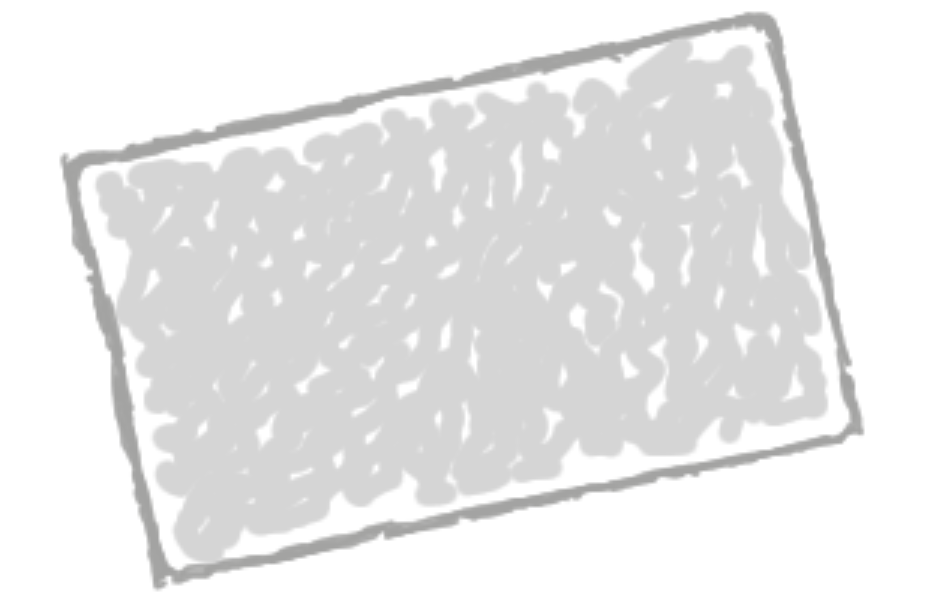
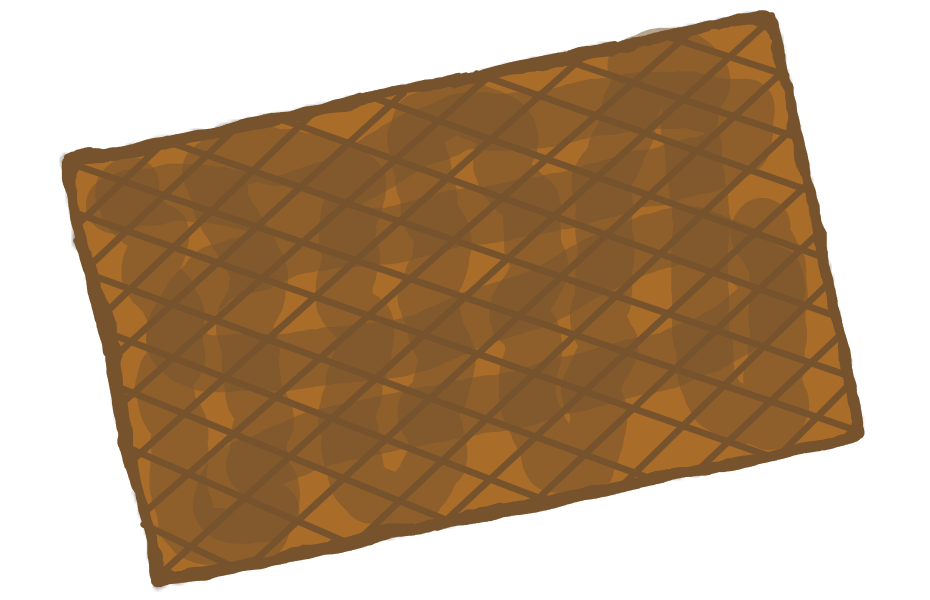
last changes draw

diff --git a/tentpal/src/components/FrontTent/FrontTent.js b/tentpal/src/components/FrontTent/FrontTent.js
@@ -1,13 +1,13 @@
 
 import classes from "./FrontTent.module.css"
 
-// colorType <= cloud, sunny, snow, rain
+// colorType <= cloudy, sunny, snow, rain
 
 function FrontTent({colorType}) {
 
 
     const returnTypeColorDiv = () => {
-        if      (colorType === "cloud") return <div className={`${classes.triangle} ${classes.triangleNormal}`} ></div>;
+        if      (colorType === "cloudy") return <div className={`${classes.triangle} ${classes.triangleNormal}`} ></div>;
         else if (colorType === "sunny") return <div className={`${classes.triangle} ${classes.triangleWarm  }`} ></div>;
         else if (colorType === "snow" ) return <div className={`${classes.triangle} ${classes.triangleCold  }`} ></div>;
         else if (colorType === "rain" ) return <div className={`${classes.triangle} ${classes.triangleRain  }`} ></div>;
@@ -15,7 +15,7 @@ function FrontTent({colorType}) {
     };
 
     const returnBlock = () => {
-        if (colorType !== "cloud" && colorType !== "sunny" && colorType !== "snow" && colorType !== "rain") return <></>;
+        if (colorType !== "cloudy" && colorType !== "sunny" && colorType !== "snow" && colorType !== "rain") return <></>;
         return(
             <>
                 <div className={classes.tentLight   }></div>

diff --git a/tentpal/src/pages/Home/Home.js b/tentpal/src/pages/Home/Home.js
@@ -38,7 +38,7 @@ function Home() {
     const randomWeather = () => {
         let w = Math.floor(Math.random() * 4);
         if (w === 0) {
-            userData.setTypeWeather("cloud");
+            userData.setTypeWeather("cloudy");
         }
         else if (w === 1) {
             userData.setTypeWeather("sunny");
@@ -73,10 +73,10 @@ function Home() {
             const weather = userData.getTypeWeather();
             const tentType = tentData.getTentType();
             if (weather !== tentType) {
-                if (weather !== "cloud") {
+                if (weather !== "cloudy") {
                     setMessage(`Weather: ${weather} -- Consider switching to a anti_${weather} tent`);
                 } else {
-                    setMessage("Weather: cloud -- Switch to a standard tent for best comfort");
+                    setMessage("Weather: cloudy -- Switch to a standard tent for best comfort");
                 }
             } else {
                 setMessage(`Weather: ${weather}`);

diff --git a/tentpal/src/pages/SetTent/SetTent.js b/tentpal/src/pages/SetTent/SetTent.js
@@ -34,8 +34,8 @@ function SetTent(){
     const setTent = (e) => {
         console.log(e);
         switch(e) {
-            case "http://localhost:3000/static/media/standart.1d5827649ef32e79c7ab.webp":
-                setKeyTent("cloud");
+            case "http://localhost:3000/static/media/standart.81e9fe1e3032a8d1369e.webp":
+                setKeyTent("cloudy");
                 break;
             case "http://localhost:3000/static/media/rain.8b04245781f66cfcf9da.webp":
                 setKeyTent("rain");

diff --git a/tentpal/src/pages/EnergyPanel/EnergyPanel.module.css b/tentpal/src/pages/EnergyPanel/EnergyPanel.module.css
@@ -96,7 +96,6 @@
     position: absolute;
     background-color: hsl(120, 75%, 33%);
     top: 250px;
-    left: 10px;
 }
 
 .applyButton:hover {
@@ -108,7 +107,7 @@
 .buttonTemp {
     width: 30%;
     height: 40%;
-    margin-left: 5%;
+    margin-left: 15%;
     border: 5px solid #767787;
     background-color: #8A8B9D;
 

diff --git a/tentpal/src/dataSet/userData.js b/tentpal/src/dataSet/userData.js
@@ -8,7 +8,7 @@ import energyData from "./setings/energyData";
 
 
 let userMode = false;
-let typeWeather = "none";       // cloud, sunny, snow, rain
+let typeWeather = "none";       // cloudy, sunny, snow, rain
 let intensityWeather = "good";  // no_warning, warning
 
 

diff --git a/tentpal/src/pages/EnergyPanel/EnergyPanel.js b/tentpal/src/pages/EnergyPanel/EnergyPanel.js
@@ -27,7 +27,7 @@ function EnergyPanel() {
     let temperature = 23;
     let moisture = 43;
 
-    if (userData.getTypeWeather() === "cloud"){
+    if (userData.getTypeWeather() === "cloudy"){
         temperature = 25;
         moisture = 50;
     }

diff --git a/tentpal/src/components/FrontTent/FrontTent.module.css b/tentpal/src/components/FrontTent/FrontTent.module.css
@@ -6,7 +6,9 @@
     height: 100%;
     clip-path: polygon(50% 0%, 0% 100%, 100% 100%);
 }
-.triangleNormal{}
+.triangleNormal{
+    background-color: #aa6c29;
+}
 .triangleWarm{
     background-color: #d5d5d5;
 }

diff --git a/tentpal/src/dataSet/tentConfig/tentData.js b/tentpal/src/dataSet/tentConfig/tentData.js
@@ -1,5 +1,5 @@
 
-// cloud, sunny, snow, rain
+// cloudy, sunny, snow, rain
 let tentType = "none";
 
 function getTentType()     {return tentType;}

diff --git a/README.md b/README.md
@@ -6,7 +6,7 @@ This repository contains the user interface for the TentPal application. This ap
 
 *   **Location Selection**: Choose a spot for your tent on an interactive map in [`tentpal/src/pages/CreateTent/SelectLocation.js`](tentpal/src/pages/CreateTent/SelectLocation.js).
 *   **Tent Setup**: Configure tent stakes, including depth and angle, in [`tentpal/src/pages/CreateTent/SetStakes.js`](tentpal/src/pages/CreateTent/SetStakes.js).
-*   **Tent Selection**: Choose from different types of tents, like cloud or rain-proof tents, using a drag-and-drop interface in [`tentpal/src/pages/CreateTent/ChooseTent.js`](tentpal/src/pages/CreateTent/ChooseTent.js).
+*   **Tent Selection**: Choose from different types of tents, like cloudy or rain-proof tents, using a drag-and-drop interface in [`tentpal/src/pages/CreateTent/ChooseTent.js`](tentpal/src/pages/CreateTent/ChooseTent.js).
 *   **Lighting Control**: Manage the tent's internal lighting, including color and intensity, from the [`tentpal/src/pages/CreateTent/LightPanel/LightPanel.js`](tentpal/src/pages/CreateTent/LightPanel/LightPanel.js).
 *   **Energy Management**: Monitor energy production and consumption from features like air conditioning and electric blankets in the [`tentpal/src/pages/CreateTent/EnergyPanel/EnergyPanel.js`](tentpal/src/pages/CreateTent/EnergyPanel/EnergyPanel.js).
 *   **Canteen Orders**: Place orders for food and drinks from a virtual canteen in [`tentpal/src/pages/CreateTent/Order/Order.js`](tentpal/src/pages/CreateTent/Order/Order.js).
